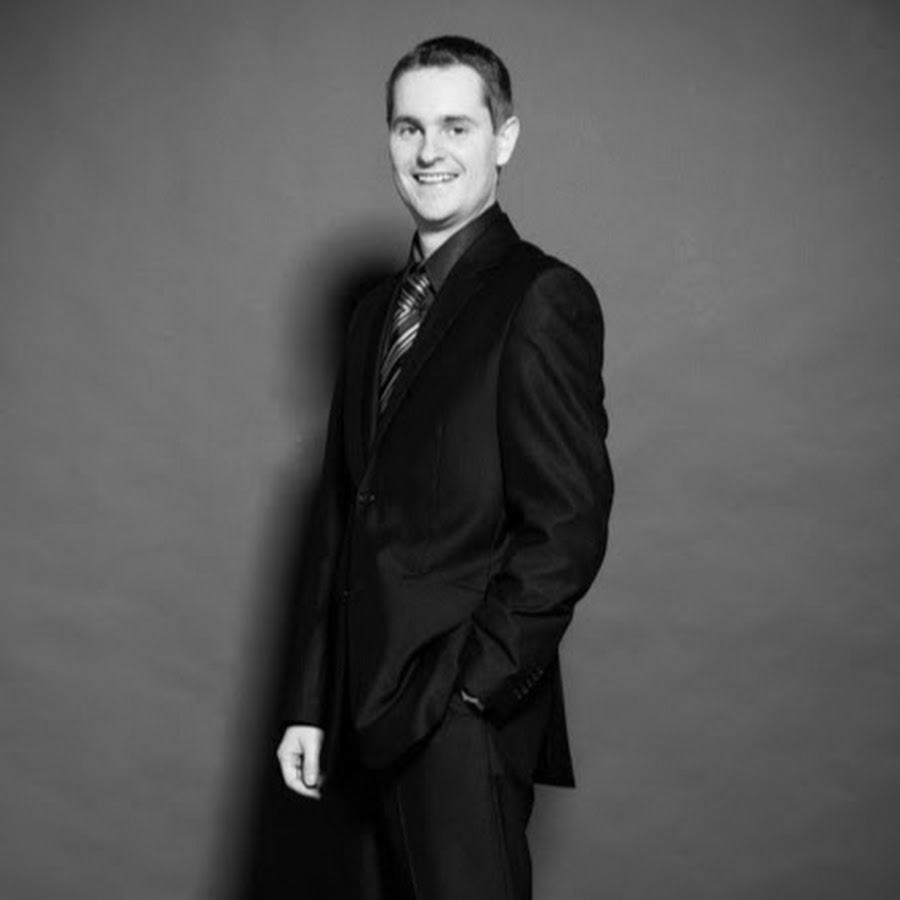
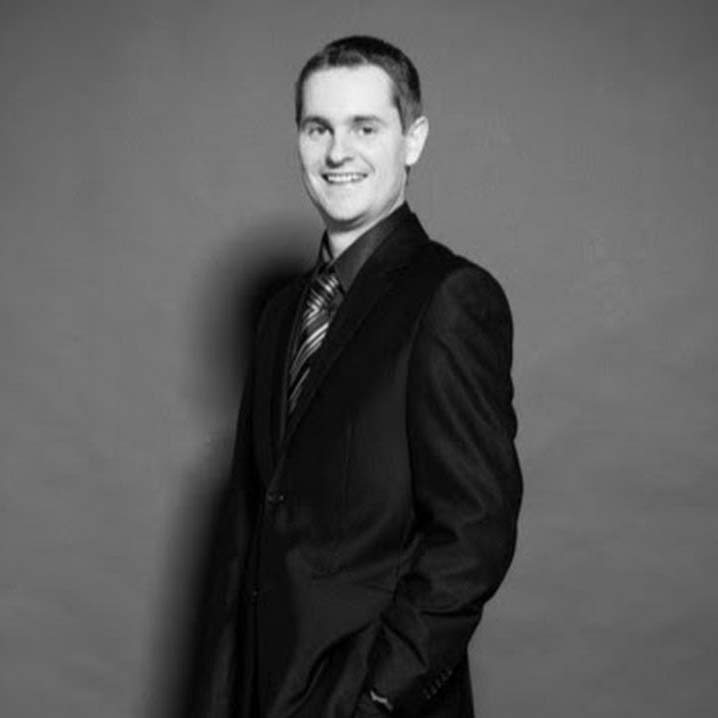
fix the team divs

diff --git a/index.html b/index.html
@@ -449,13 +449,13 @@
                             </div>
                         </div>
                     </div>
-                    <!-- TEAM 3 -->
+                    
                     <div class="col-md-4 team-wrapper">
                         <div class="row team-member">
-                            <img src="img/team/Justin.png" alt="Justin">
+                            <img class="team-picture" src="img/team/Justin.png" alt="Justin">
                             <div class="team-socials">
                                 <div class="about">Justin représente le savoir faire d'Heptaward.<br>Il dirige la conception et mise en ligne de l'application.<br> Il possède une vision générale de tout l’univers technique (évolutions, sécurité des données ...).</div>
-                                <!-- Socials
+                                <!-- Social
                                 <a href="#"><span class="fa fa-facebook"></span></a>
                                 <a href="#"><span class="fa fa-twitter"></span></a>
                                 <a href="#"><span class="fa fa-linkedin"></span></a>
@@ -463,7 +463,7 @@
                             </div>
                             <div class="team-content">
                                 <h5>Justin LEGOFF</h5>
-                                <span class="team-subtitle">Cofounder<br>CTO & Lead developer</span>
+                                <span class="team-subtitle">Cofounder<br>CEO</span>
                                 <span class="triangle"></span>
                             </div>
                         </div>
